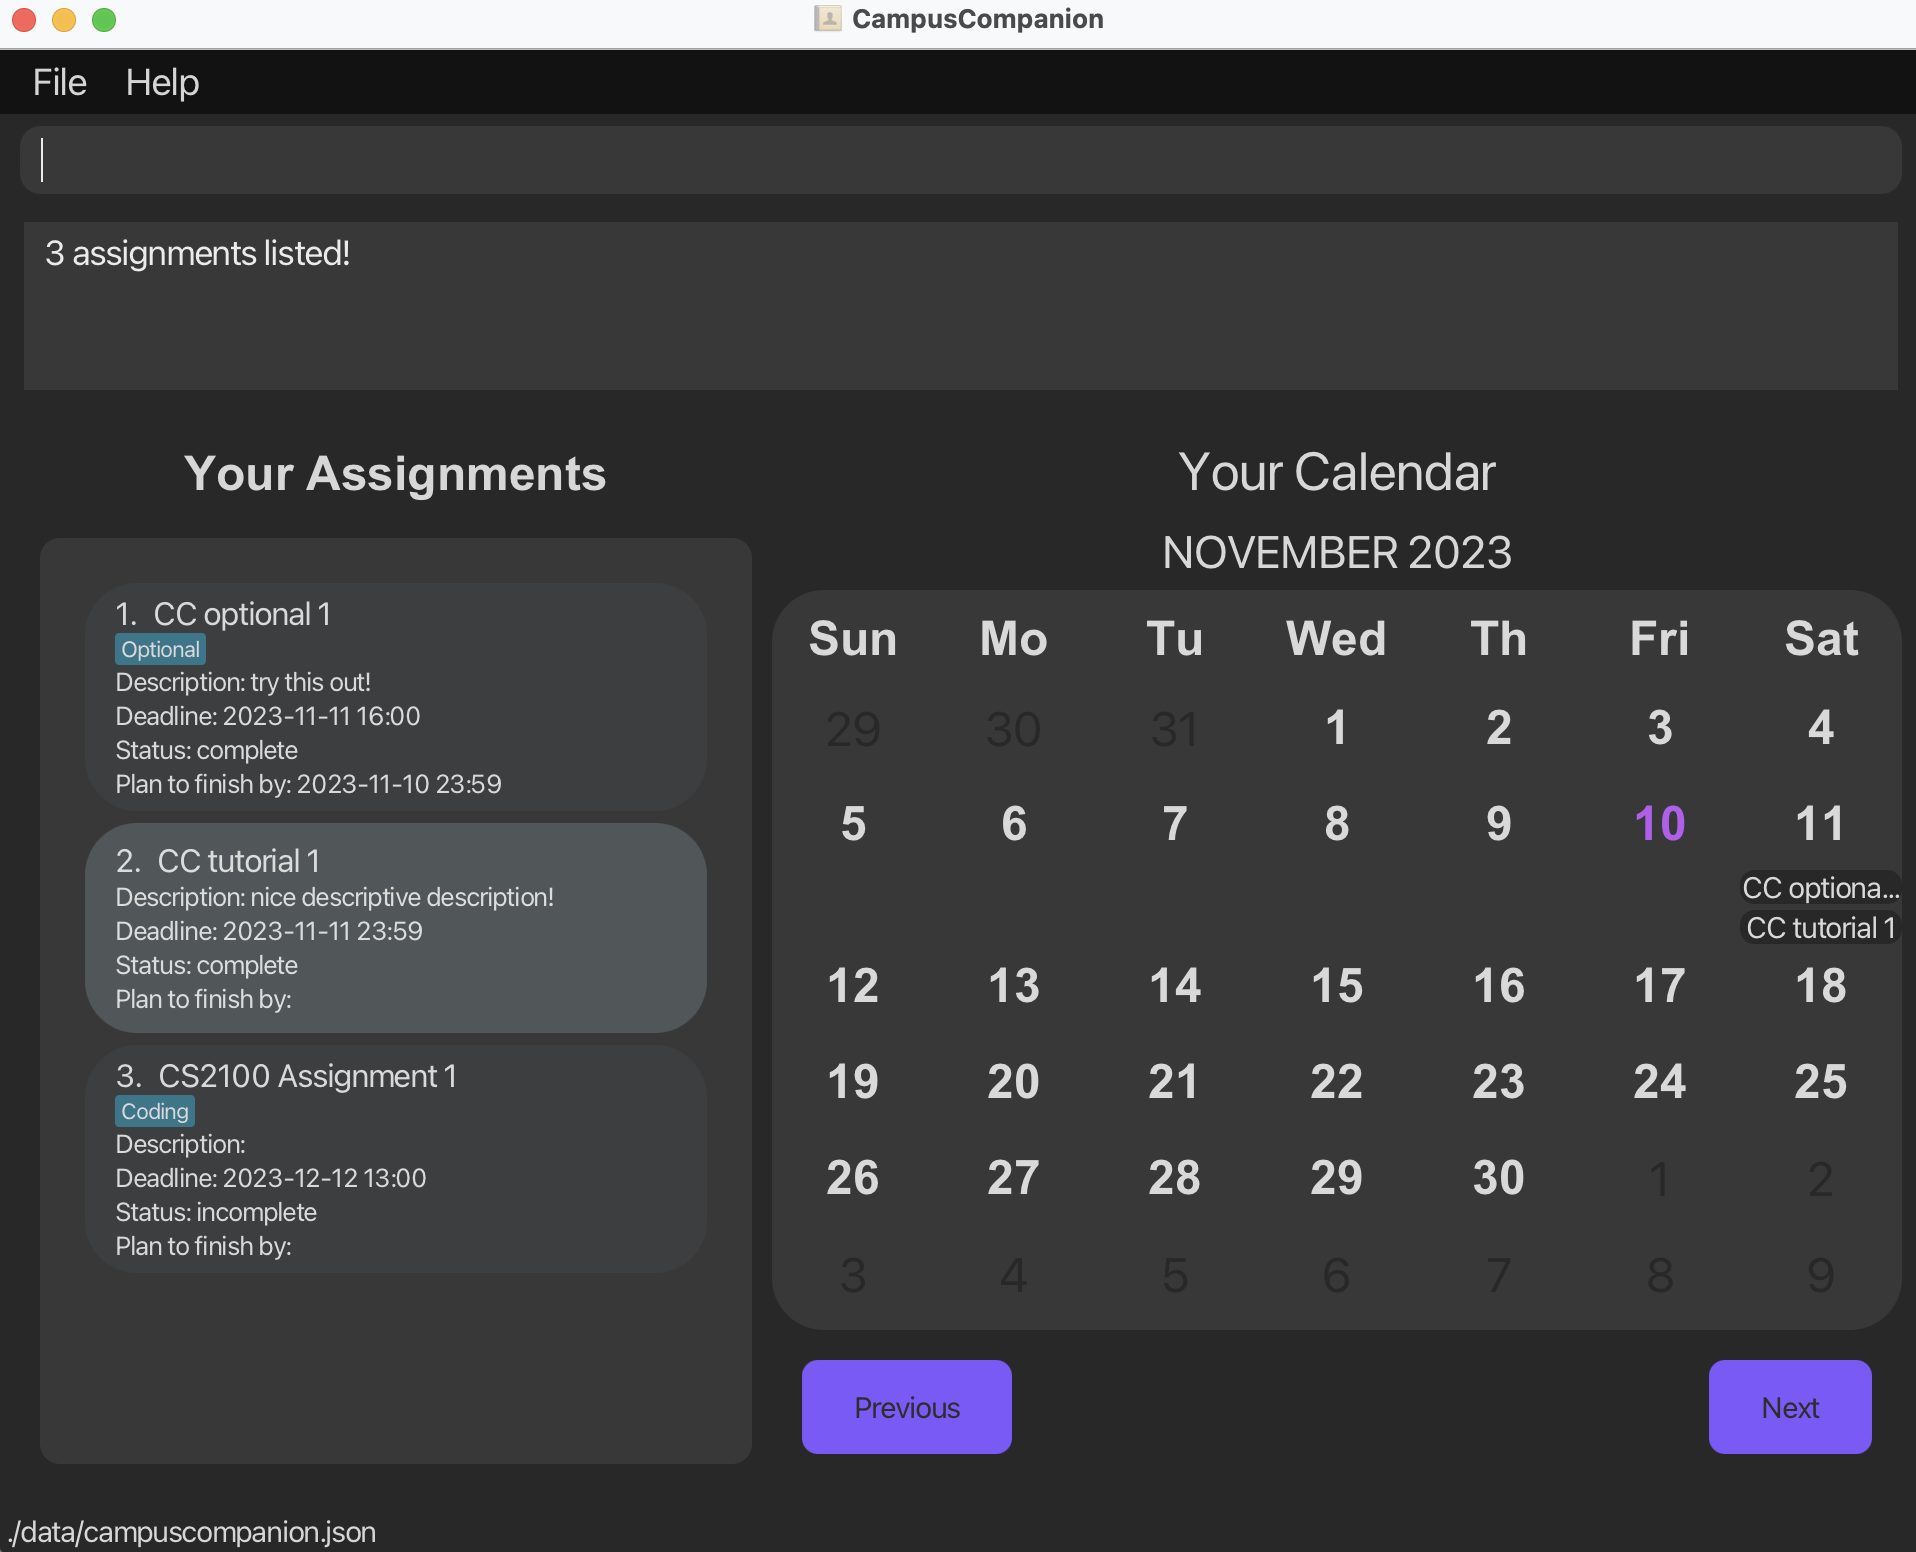
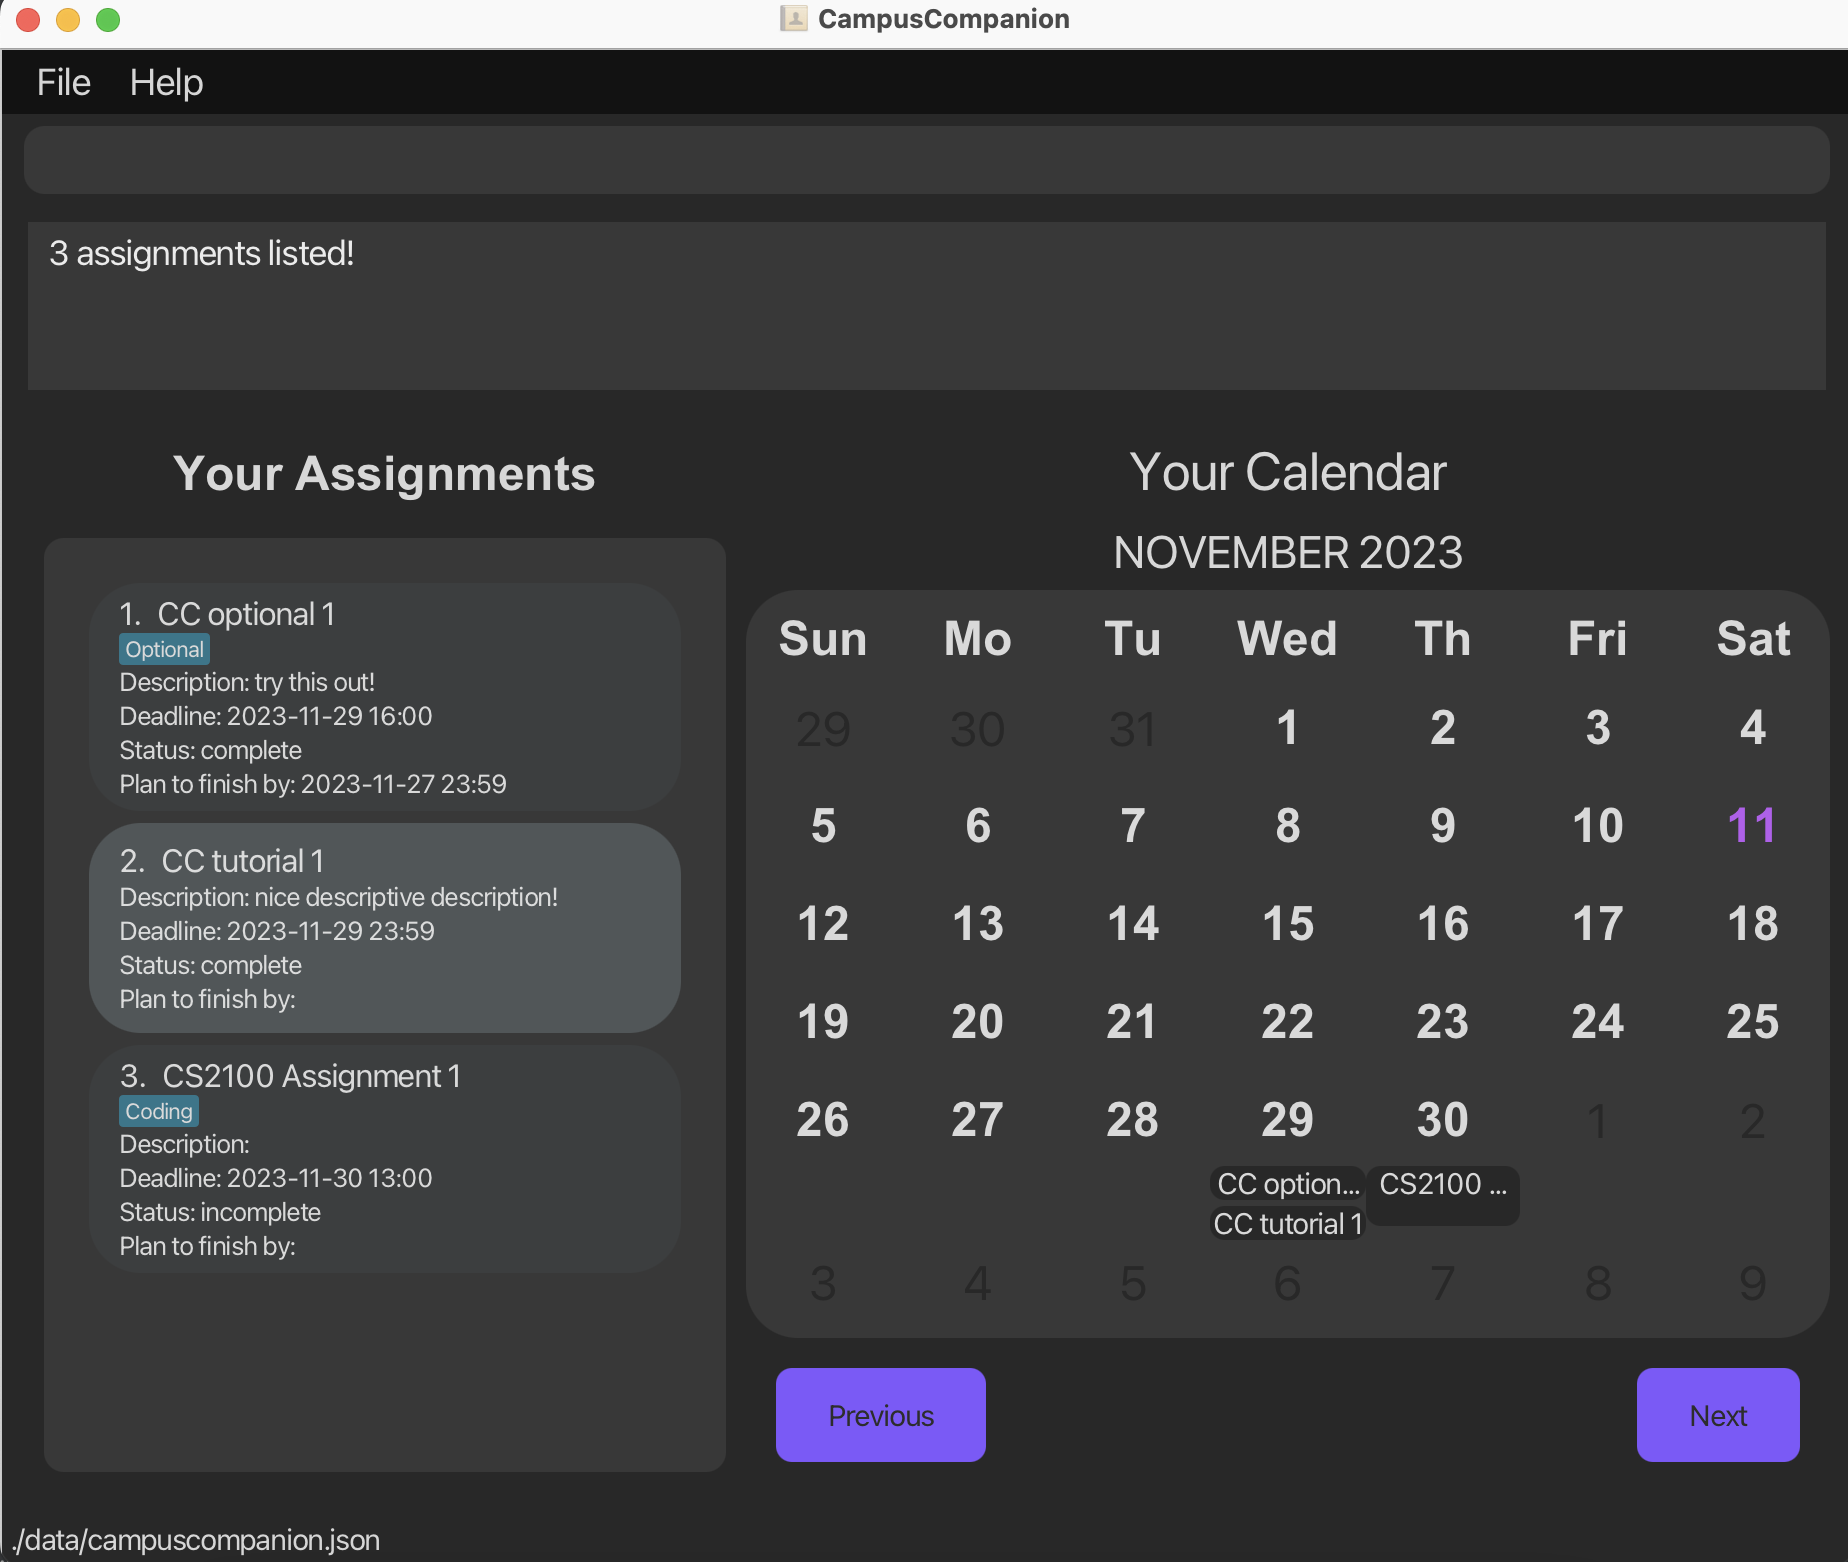
Finish new user tut

diff --git a/docs/UserGuide.md b/docs/UserGuide.md
@@ -222,15 +222,16 @@ command for both assignments and internships.
 2. Let's change the view to see assignments first. Enter the command `list-a`
 ![NewUserTutListA.png](images%2FNewUserTutListA.png)
 3. Let's try **adding an assignment** to CampusCompanion. Enter the command
-`add-a n/CC tutorial 1 e/2023-11-11`
+`add-a n/CC tutorial 1 e/2023-11-29`
 ![NewUserTutAdd1.png](images%2FNewUserTutAdd1.png)
 
 4. Add a few more assignments. Try out filling optional parameters as well, etc
- - `add-a n/CS2100 Assignment 1 e/2023-12-12 13:00 t/Coding`
- - `add-a n/CC optional 1 e/2023-11-11 16:00 d/try this out! s/complete p/2023-11-10 t/Optional`
+ - `add-a n/CS2100 Assignment 1 e/2023-11-30 13:00 t/Coding`
+ - `add-a n/CC optional 1 e/2023-11-29 16:00 d/try this out! s/complete p/2023-11-27 t/Optional`
    - Note: On adding assignments, they will automatically be sorted by their deadlines.
-   The assignment due earliest will be first in the assignments list, which can be view using `list-a`.
-![NewUserTutAddMoreAssgn.png](images%2FNewUserTutAddMoreAssgn.png)
+   The assignment due earliest will be first in the assignments list, which can be viewed using `list-a`
+
+   ![NewUserTutAddMoreAssgn.png](images%2FNewUserTutAddMoreAssgn.png)
 
 5. Let us try editing the description of `CC tutorial 1` to say `nice descriptive description!`.
 In the example above, `CC tutorial 1` is in index 2, so we do `edit-a i/2 d/nice descriptive description!`
@@ -238,23 +239,46 @@ In the example above, `CC tutorial 1` is in index 2, so we do `edit-a i/2 d/nice
 
 6. We are done with `CC tutorial 1`! Let's now mark it as complete. First, let's try using `find-a` to filter and narrow
 down the list. We can do `find-a tutorial` to filter the assignments list to show only assignments that
-contain `tutorial`.
+contain `tutorial`
 ![NewUserTutFind.png](images%2FNewUserTutFind.png)
 
-7. Then, we use the index shown in the list (in this case, `CC tutorial 1` is at index 1) and do `mark-a 1` to mark the assignment as completed.
+7. Then, we use the index shown in the list (in this case, `CC tutorial 1` is at index 1) and do `mark-a 1` to mark the assignment as completed
 ![NewUserTutMark.png](images%2FNewUserTutMark.png)
 
-8. To see all our assignments again, let's do `list-a`.
+8. To see all our assignments again, let's do `list-a`
 ![NewUserTutList.png](images%2FNewUserTutList.png)
 
 9. Lastly for our assignments, let's delete our `CC tutorial 1` as we no longer want to track it.
-With reference the picture above, we will do `delete-a 2`.
+With reference the picture above, we will do `delete-a 2`
 ![NewUserTutDelete.png](images%2FNewUserTutDelete.png)
 
 10. Now, let's change the view to see internships. Enter the command `list-i`
 ![NewUserTutListI.png](images%2FNewUserTutListI.png)
-11. Congratulations! You are now ready to use CampusCompanion.
-    (in progress)
+
+11. Similar to assignments, we can add internship roles (under applications) and tasks! Let's add a few roles now using the command `add-i-role`
+ - `add-i-role n/Google r/SWE c/Summer 2024`
+ - `add-i-role n/FaceBook r/DevOps c/Winter 2024 d/Impress Mr Mark p/9500 o/follow-up l/Florida`
+![NewUserTutAddIRoles.png](images%2FNewUserTutAddIRoles.png)
+
+12. Now, let's add in some tasks relating to our roles, with `add-i-task`
+ - `add-i-task n/OA i/1  e/2023-11-30 11:30` 
+ - `add-i-task n/Interview i/1 e/2023-12-10 16:00 o/follow-up`
+ - `add-i-task n/OA i/2 e/2023-11-29 17:30 s/complete o/follow-up`
+![NewUserTutAddITasks.png](images%2FNewUserTutAddITasks.png)
+
+13. We can also mark tasks as complete with `mark-i` and edit tasks and roles using `edit-i-task` and `edit-i-role` respectively. Let's try!
+ - `mark-i 2`
+ - `edit-i-task i/1 o/awaiting`
+ - `edit-i-role i/1 c/Winter 2024 d/Prepare for google questions p/12500 l/Labrador Park`
+![NewUserTutMarkEditI.png](images%2FNewUserTutMarkEditI.png)
+
+14. Lastly, let's find Google with `find-i-role google` and delete the completed Google OA task with `delete-i-task 1`
+![NewUserTutFindDeleteI.png](images%2FNewUserTutFindDeleteI.png)
+
+15. We can view our internships list again with `list-i`
+![NewUserTutLastListI.png](images%2FNewUserTutLastListI.png)
+
+16. Congratulations! You are now ready to use CampusCompanion.
 
 To view all our features, you may visit out [features section](#features).
 
@@ -295,8 +319,8 @@ If not provided, start time will default to 00:00 and end time will default to 2
 </div>
 
 **Examples:** 
-- `add-a n/CS2100 Assignment 1 e/2023-10-29 13:00`
-- `add-a n/CS2103T v1.3 e/2023-10-28 18:00 d/Work on add function for task s/incomplete p/2023-10-27 16:00 t/Coding`
+- `add-a n/CS2100 Assignment 1 e/2023-11-29 13:00`
+- `add-a n/CS2103T v1.3 e/2023-11-28 18:00 d/Work on add function for task s/incomplete p/2023-11-27 16:00 t/Coding`
 
 **When you might use it:** 
 - When you first receive news of an assignment or deadline, and you want to keep track of it.
